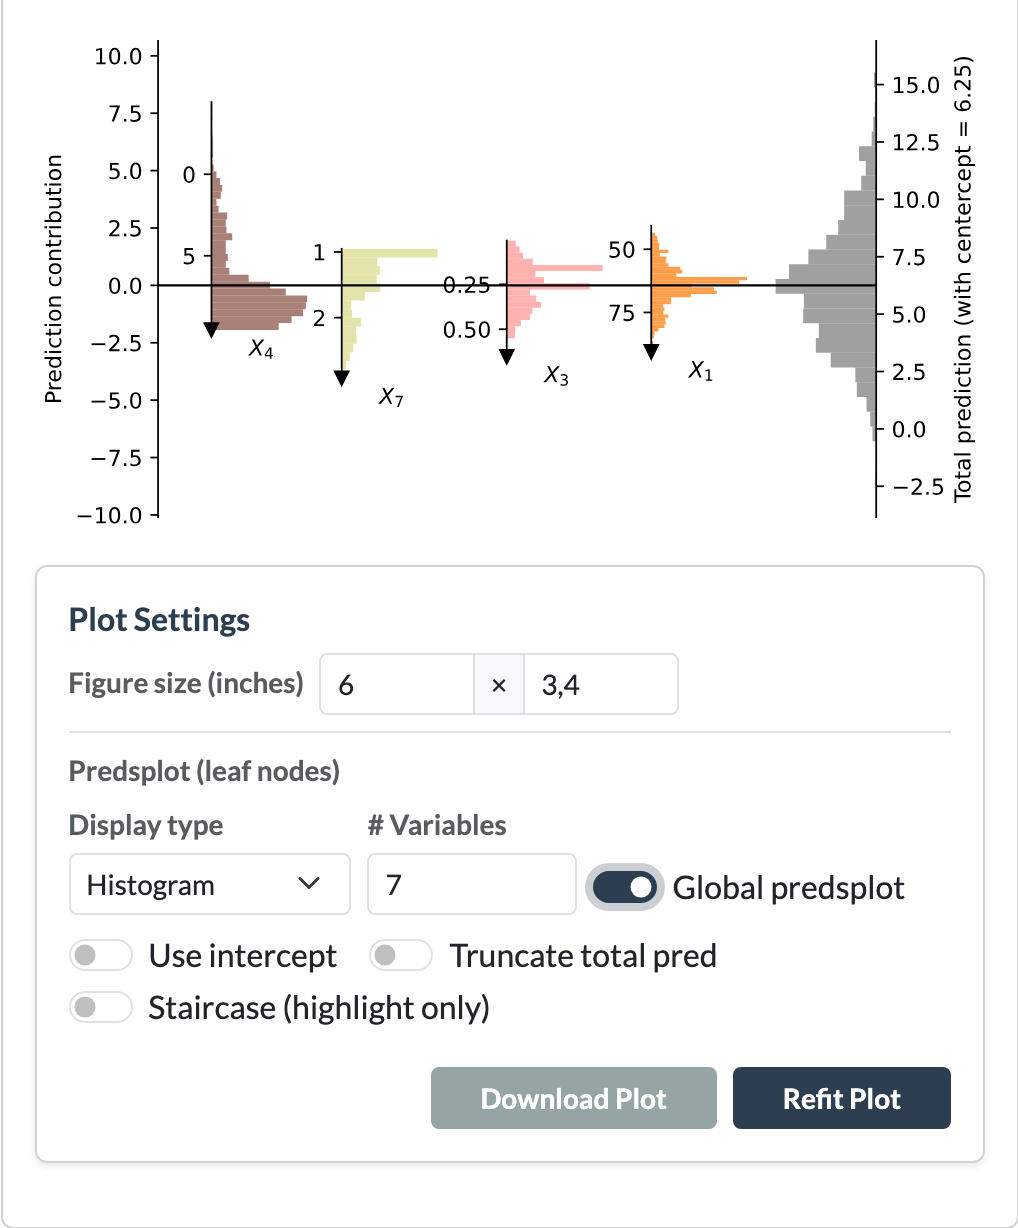
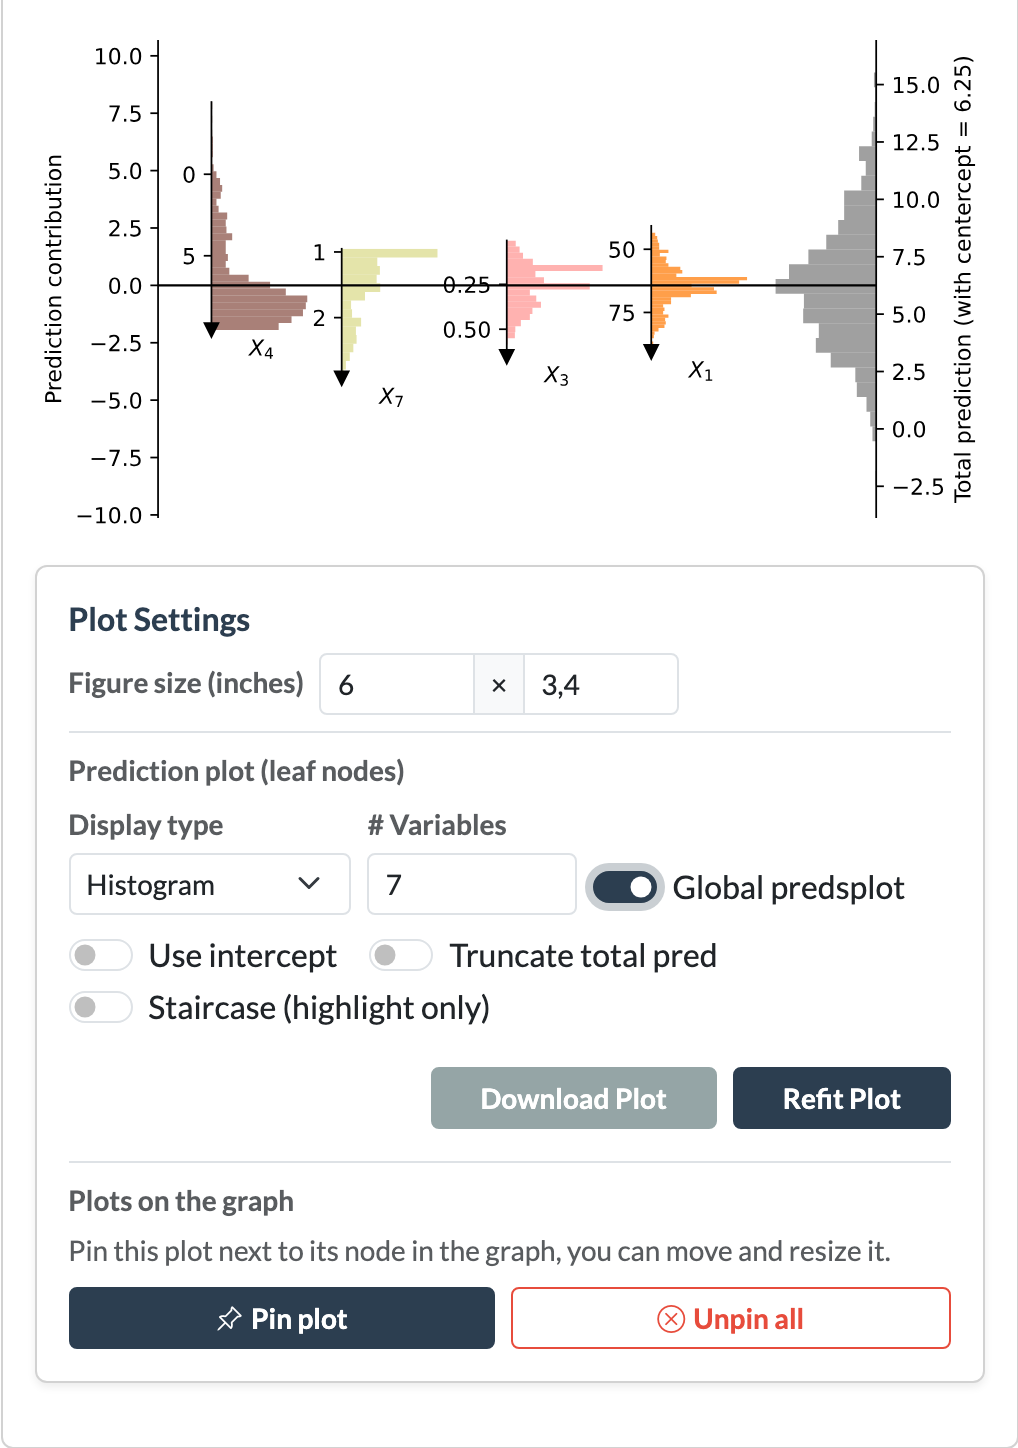
update documentation about pinning nodes to the graph

diff --git a/docs_scripts/make_screenshots.py b/docs_scripts/make_screenshots.py
@@ -167,6 +167,31 @@ def screenshot_node_info(browser: Browser, url: str):
     page.close()
 
 
+def screenshot_pinned_plots(browser: Browser, url: str):
+    """The whole app with the plots of an internal node and a leaf pinned on the graph."""
+    page = open_app(browser, url, OVERVIEW_SCALE)
+    click_node(page, INTERNAL_NODE)
+    page.locator(f"#{ids.NODE_INFO_PLOT_SWITCH}").check()
+    page.wait_for_selector(f"#{ids.NODE_INFO_PLOT_CONTAINER} img")
+    wait_until_idle(page)
+    for node_id in [INTERNAL_NODE, deepest_leaf(page)]:
+        click_node(page, node_id)
+        page.click(f"#{ids.BTN_ADD_GRAPH_PLOT}")
+        wait_until_idle(page)
+    page.wait_for_function("document.querySelectorAll('.imote-graph-plot img').length === 2")
+    # The leaf plot is placed over other nodes, drag it to the empty space under the tree like a user would
+    leaf_plot = page.locator(".imote-graph-plot").nth(1).bounding_box()
+    graph = page.locator(f"#{ids.CYTOSCAPE_GRAPH}").bounding_box()
+    page.mouse.move(leaf_plot["x"] + leaf_plot["width"] / 2, leaf_plot["y"] + leaf_plot["height"] / 2)
+    page.mouse.down()
+    page.mouse.move(graph["x"] + 0.45 * graph["width"], graph["y"] + 0.85 * graph["height"], steps=10)
+    page.mouse.up()
+    page.mouse.move(0, 0)  # no hover, so the close buttons and resize handles of the plots are hidden
+    wait_until_idle(page)
+    page.screenshot(path=OUTPUT_DIR / "gallery-pinned-plots.png")
+    page.close()
+
+
 def screenshot_new_tree(browser: Browser, url: str):
     page = open_app(browser, url)
     open_card(page, ids.NEW_TREE_TOGGLE_BUTTON, ids.NEW_TREE_COLLAPSE)
@@ -213,6 +238,7 @@ SCREENSHOTS = [
     screenshot_overview,
     screenshot_tree_info,
     screenshot_node_info,
+    screenshot_pinned_plots,
     screenshot_new_tree,
     screenshot_edit_tree,
     screenshot_layout,

diff --git a/docs/user-guide/b-node-info.md b/docs/user-guide/b-node-info.md
@@ -167,6 +167,19 @@ The following settings are only available for prediction plots:
 
 After changing any settings, click **"Refit Plot"** to regenerate the visualization using the updated configuration.
 
+## Plots on the graph
+
+The plot of a node can also be pinned on the graph, next to its node. This is useful to compare the plots of a few
+nodes, or to show them together with the tree.
+
+* **Pin plot** – Pins the plot of the selected node on the graph, made with the current plot settings. Pinning the plot 
+  of a node again replaces it.
+* **Unpin all** – Removes all pinned plots from the graph. To remove a single plot, hover over it and click the **×**
+  in its top right corner.
+
+The pinned plots don't change the layout of the tree. Drag a plot to move it, or drag one of its corners to resize it. 
+Clicking a plot selects its node. The pinned plots are removed when a new tree is shown.
+
 !!! note "Showing all node plots"
     The [Edit Tree](d-edit-tree.md) card also contains a **"Show all node plots"** switch. When enabled, the application
     generates a node plot for every node in the tree and replaces the usual node labels with these plots. This can be 

diff --git a/docs/user-guide/c-new-tree.md b/docs/user-guide/c-new-tree.md
@@ -28,7 +28,8 @@ The following actions are also available:
 
 * **Save shown tree** – Saves the currently displayed tree as a pickled Python object in
   `~/.imote/saved_trees`. The saved tree can later be reloaded in the application.
-* **Download shown tree** – Downloads the currently displayed tree as an SVG image.
+* **Download shown tree** – Downloads the currently displayed tree as an SVG image, including the plots pinned on the
+  graph.
 * **Reload tree** – Restores the original fitted tree. This is useful after exploring subtrees or making temporary
   modifications to the visualization. The tree is restored to the state it had immediately after being fitted or loaded.
 * **Load tree** – Loads a previously saved tree (pickled Python object). Enter the path to a saved tree in the text

diff --git a/README.md b/README.md
@@ -39,7 +39,7 @@ makes them easy to explore, explain and present.
 - Click a node to see its type, split and metrics (number of samples, RSS, MAE, ...).
 - See the plot of any node: the data and the fit of a split, or the prediction plot of a leaf that shows how each
   feature contributes to its predictions.
-- Turn on **Show all node plots** to replace every node of the graph by its plot. 
+- Turn on **Show all node plots** to replace every node of the graph by its plot or only pin next to their node.
 - Highlight the path of a data point through the tree, with its prediction.
 
 

diff --git a/docs/gallery.md b/docs/gallery.md
@@ -18,6 +18,14 @@ The initially loaded PILOT tree showing all node plots.
 
 ---
 
+## Plots pinned on the graph
+
+![pinned plots](assets/screenshots/gallery-pinned-plots.png)
+
+The initially loaded PILOT tree with the plots of an internal node and a leaf pinned on the graph.
+
+---
+
 ## A large tree
 
 
